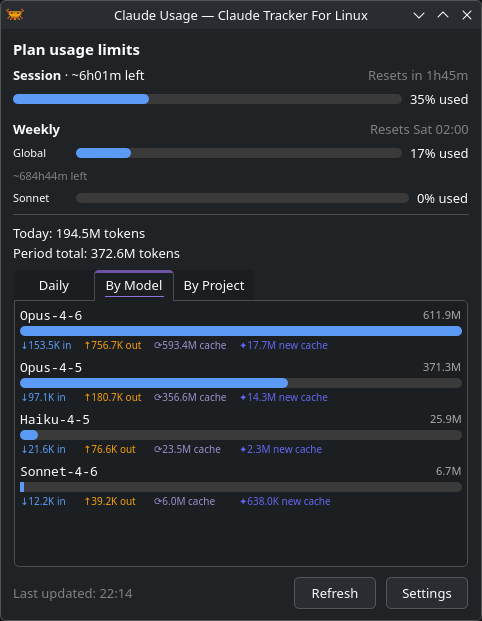
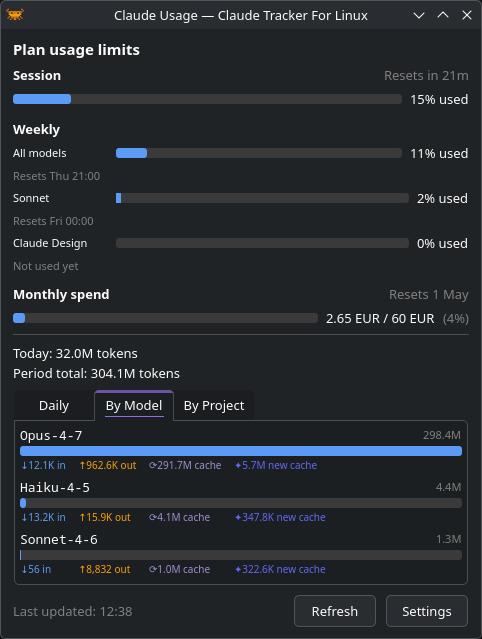
docs: refresh tray + by-model screenshots for 2.7.1
Replace the tray_overlay.png capture with a fresh Max-plan tooltip
showing the new "All models" label and per-reset layout, and refresh
the by-model tab screenshot. Add a dedicated tray_enterprise.png
illustrating the Enterprise monthly-spend tooltip under the OAuth /
Rate limits section.

diff --git a/docs/data-sources.md b/docs/data-sources.md
@@ -53,3 +53,5 @@ The rate limit data appears in:
 - The tooltip (if enabled)
 - The usage popup's rate limits section
 - Desktop notifications when utilization exceeds the configured threshold
+
+![Enterprise tray tooltip — monthly spend only](assets/images/tray_enterprise.png){ width="380" }
